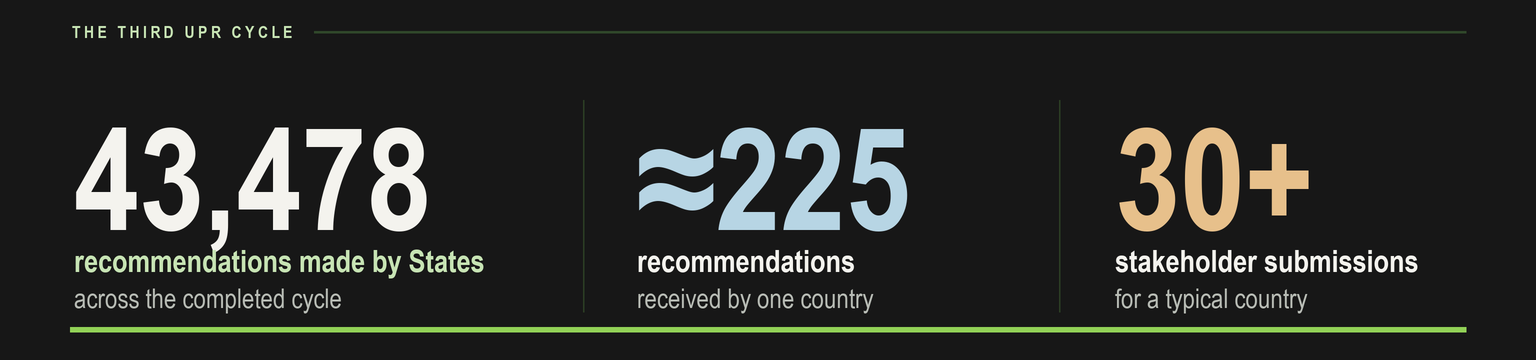
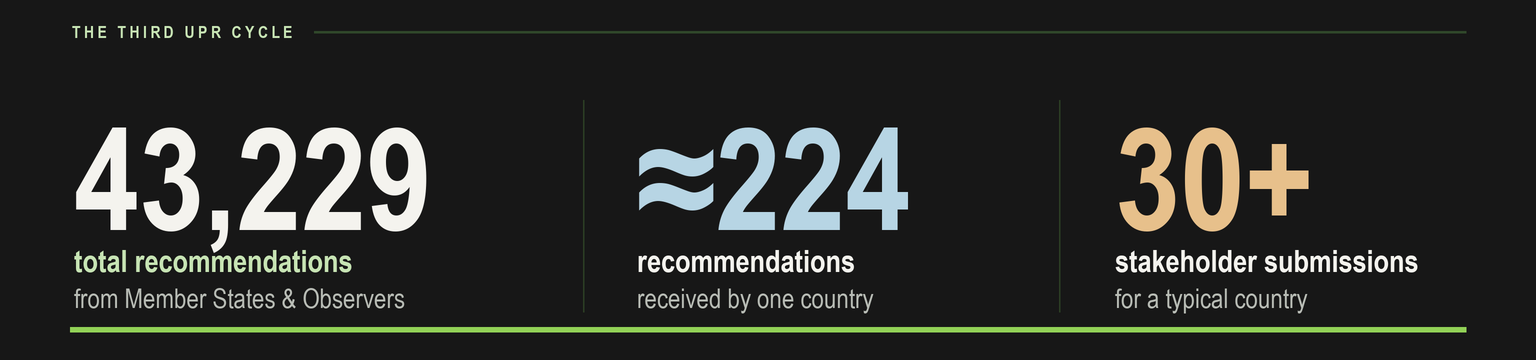
docs: address review feedback on README
- Refresh scale figures from the website repo: 43,229 total recommendations
  from Member States & Observers, ~224 per country (was stale 43,478 / ~225).
- Drop the upr-process diagram; it still labels the middle input document
  "UN compilation" and the peer review "questions + recommendations", both
  flagged as incorrect. Section now describes the process in text instead.
- Link The Good AI Lab to thegoodailab.org rather than the GitHub org, and
  point "Read the story" at the published blog post.
- Fix stray backticks in the pipeline table's Review row.
- Comment out the alternative prek installers so copy/paste runs only one.

diff --git a/README.md b/README.md
@@ -14,7 +14,7 @@
 </p>
 
 <p align="center">
-  An open-source tool by <a href="https://github.com/The-Good-AI-Lab">The Good AI Lab</a> &amp; <a href="https://fmsi.ngo/en/">FMSI</a> that reads two sets of human-rights recommendations,
+  An open-source tool by <a href="https://thegoodailab.org">The Good AI Lab</a> &amp; <a href="https://fmsi.ngo/en/">FMSI</a> that reads two sets of human-rights recommendations,
   <br>finds meaning rather than matching words, and hands experts a focused shortlist to review.
 </p>
 
@@ -32,7 +32,7 @@
   <a href="#-how-it-works"><b>How it works</b></a> ·
   <a href="#-under-the-hood"><b>Under the hood</b></a> ·
   <a href="#-architecture"><b>Architecture</b></a> ·
-  <a href="https://github.com/The-Good-AI-Lab/upr-matcher"><b>Read the story ↗</b></a>
+  <a href="https://thegoodailab.org/blog/upr-matcher"><b>Read the story ↗</b></a>
 </p>
 
 ---
@@ -57,12 +57,12 @@ The hard part isn't volume alone — it's **semantics**. Recommendations from di
   </picture>
 </p>
 
-And it happens at scale. In the last completed UPR cycle alone, states made tens of thousands of recommendations — with dozens of stakeholder submissions per country to reconcile.
+And it happens at scale. In the last completed UPR cycle alone, Member States and Observers made tens of thousands of recommendations — with dozens of stakeholder submissions per country to reconcile.
 
 <p align="center">
   <picture>
     <source media="(prefers-color-scheme: dark)" srcset=".github/assets/scale-dark.png">
-    <img src=".github/assets/scale.png" alt="The third UPR cycle: 43,478 recommendations made by states, ~225 received by one country, 30+ stakeholder submissions for a typical country" width="560">
+    <img src=".github/assets/scale.png" alt="The third UPR cycle: 43,229 total recommendations from Member States and Observers, about 224 received by one country, 30+ stakeholder submissions for a typical country" width="560">
   </picture>
 </p>
 
@@ -70,14 +70,7 @@ And it happens at scale. In the last completed UPR cycle alone, states made tens
 
 ## 🌍 How the UPR works
 
-The [Universal Periodic Review](https://www.ohchr.org/en/hr-bodies/upr/upr-home) is a UN process that examines the human-rights record of all 193 member states. Each review draws on three public documents — a national report, a UN compilation, and a stakeholder summary. During the peer review, other states raise questions and make recommendations; these are recorded in the Working Group report and then **supported or noted** by the state under review.
-
-<p align="center">
-  <picture>
-    <source media="(prefers-color-scheme: dark)" srcset=".github/assets/upr-process-dark.png">
-    <img src=".github/assets/upr-process.png" alt="A national report, UN compilation, and stakeholder summary inform the UPR peer review; its recommendations are recorded in the Working Group report and then supported or noted by the state" width="720">
-  </picture>
-</p>
+The [Universal Periodic Review](https://www.ohchr.org/en/hr-bodies/upr/upr-home) is a UN process that examines the human-rights record of all 193 member states. During each review, other states make recommendations to the state under review. Every recommendation is recorded in the Working Group report, and the reviewed state then marks each one as **supported** or **noted**.
 
 Organizations like FMSI contribute to this process — but seeing how their recommendations connect to the ones that surface in the review is exactly the needle-in-a-haystack problem UPR Matcher was built to solve.
 
@@ -107,7 +100,7 @@ Two stages: a broad semantic retrieval pass surfaces every plausible pair, then 
 | **Extract** | UPR `.docx` tables parsed directly; FMSI `.pdf` recommendations pulled out with LLM assistance | `python-docx`, `pypdf`, `pydantic-ai` + `meta-llama/llama-3.3-70b` (OpenRouter) |
 | **Retrieve** | Embed every recommendation, keep pairs above a cosine-similarity floor | `BAAI/bge-base-en-v1.5` via `fastembed`, threshold `≥ 0.6` |
 | **Re-rank** | Score the shortlist with a cross-encoder, keep a dynamic top-k per source | `cross-encoder/ms-marco-MiniLM-L6-v2`, top-k `1–10` |
-| **Review** | Experts accept / reject / annotate; feedback is stored against each match | FastAPI `+ ` SQLite / PostgreSQL |
+| **Review** | Experts accept / reject / annotate; feedback is stored against each match | FastAPI + SQLite / PostgreSQL |
 
 Every match keeps a **traceable record** — the original texts, both scores, prediction and match IDs, and the latest expert decision — so teams can always see *why* two recommendations were linked.
 
@@ -216,8 +209,8 @@ The project uses [prek](https://prek.j178.dev/) for pre-commit hooks (shared `.p
 ```sh
 # install (choose one)
 curl --proto '=https' --tlsv1.2 -LsSf https://github.com/j178/prek/releases/download/v0.3.1/prek-installer.sh | sh
-uv tool install prek
-brew install prek
+# or: uv tool install prek
+# or: brew install prek
 ```
 
 From the repo root: `prek install`, then `prek run` from anywhere in the repo (or `prek run --all-files`). CI runs the same checks via the Backend workflow (`.github/workflows/backend.yaml` → `common.yaml`).
@@ -237,7 +230,7 @@ From the repo root: `prek install`, then `prek run` from anywhere in the repo (o
 
 ## 🤝 Built by
 
-A collaboration between the **[Good AI Lab](https://github.com/The-Good-AI-Lab)** and **[Fondazione Marista per la Solidarietà Internazionale (FMSI)](https://fmsi.ngo/en/)**, exploring how hybrid AI systems can responsibly support human-rights advocacy.
+A collaboration between the **[Good AI Lab](https://thegoodailab.org)** and **[Fondazione Marista per la Solidarietà Internazionale (FMSI)](https://fmsi.ngo/en/)**, exploring how hybrid AI systems can responsibly support human-rights advocacy.
 
 > The most impactful AI systems are not those that replace human expertise, but those that strengthen it.
 
